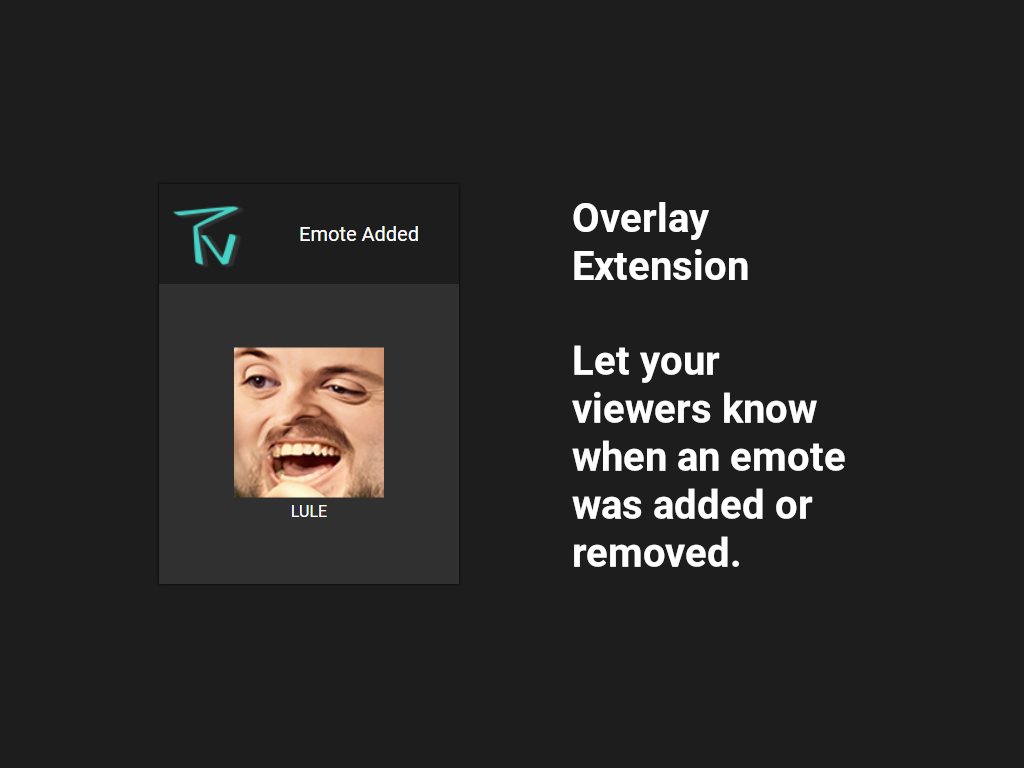
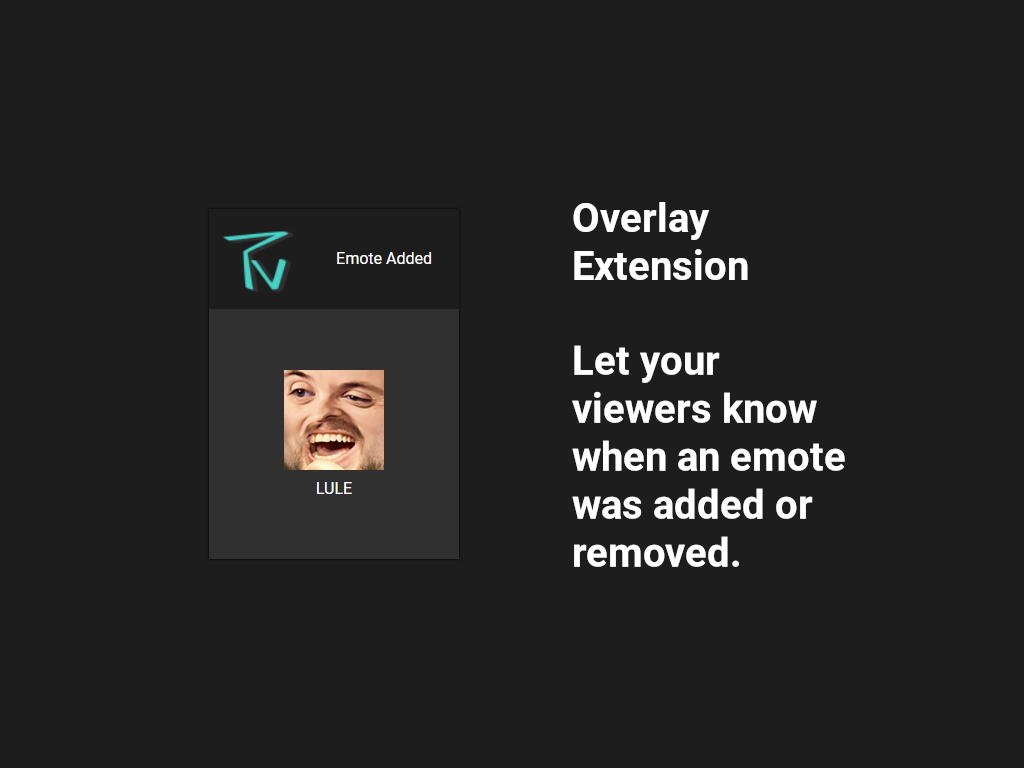
Added queue.

Changed region(s): [[0.2188, 0.4375, 0.375, 0.6875], [0.1562, 0.25, 0.4375, 0.375]]

diff --git a/js/overlay.js b/js/overlay.js
@@ -1,4 +1,5 @@
 const container = document.querySelector('.container');
+const emoteContainer = document.querySelector('.emote-container');
 const eventAction = document.querySelector('.event-action');
 const emoteImage = document.querySelector('.emote-image');
 const emoteName = document.querySelector('.emote-name');
@@ -8,19 +9,31 @@ const emoteImages = {};
 let eventTimeout;
 let imageTimeout;
 
-const displayAction = (add, name, image, id) => {
+let queue = [];
+
+const displayAction = () => {
+  if (!queue[0]) return;
+
+  const { add, name, image, id } = queue[0];
+
+  queue.shift();
+
   clearTimeout(eventTimeout);
   clearTimeout(imageTimeout);
 
+  container.style.pointerEvents = 'auto';
   container.style.opacity = 1;
 
+  emoteContainer.href = `https://7tv.app/emotes/${id}`;
+
   eventTimeout = setTimeout(() => {
+    container.style.pointerEvents = 'none';
     container.style.opacity = 0;
 
     imageTimeout = setTimeout(() => {
       emoteImage.src = '';
     }, 1000);
-  }, 1000 * 5);
+  }, 1000 * 3);
 
   switch (add) {
     case true:
@@ -62,17 +75,19 @@ const listenToEvents = async (id) => {
     source.addEventListener('update', ({ data }) => {
       const { action, name, emote, emote_id } = JSON.parse(data);
 
-      displayAction(
-        action === 'ADD',
+      queue.push({
+        add: action === 'ADD',
         name,
-        action === 'ADD' ? emote.urls[3][1] : null,
-        emote_id
-      );
+        image: action === 'ADD' ? emote.urls[3][1] : null,
+        id: emote_id,
+      });
     });
   } catch (error) {
     console.log(error);
   }
 };
+
+setInterval(displayAction, 1000 * 5);
 
 window.Twitch.ext.onAuthorized(async ({ channelId }) => {
   getEmotes(channelId);

diff --git a/overlay.html b/overlay.html
@@ -15,7 +15,11 @@
         <img src="img/logo.png" alt="7TV" />
         <p class="event-action">Emote Added</p>
       </a>
-      <div class="emote-container">
+      <a
+        href="https://7tv.app/emotes/612f89fe82980afa23311632"
+        class="emote-container"
+        target="_blank"
+      >
         <div class="emote">
           <img
             src="https://cdn.7tv.app/emote/612f89fe82980afa23311632/4x"
@@ -23,7 +27,7 @@
           />
           <p class="emote-name">ravenS</p>
         </div>
-      </div>
+      </a>
     </div>
   </body>
 </html>

diff --git a/css/overlay.css b/css/overlay.css
@@ -4,6 +4,7 @@ body {
   font-family: 'Roboto', sans-serif;
   color: white;
   text-align: center;
+  user-select: none;
 }
 
 body,
@@ -22,13 +23,14 @@ a {
   top: 50%;
   transform: translateY(-50%);
   width: 250px;
-  height: 250px;
+  height: 350px;
   background-color: #303030;
   box-shadow: 0 0px 3px black;
   display: flex;
   flex-direction: column;
   opacity: 0;
   transition: opacity 1s;
+  pointer-events: none;
 }
 
 .header {
@@ -58,5 +60,6 @@ a {
 }
 
 .emote-image {
-  width: 80px;
+  width: 100px;
+  margin-bottom: 5px;
 }

diff --git a/css/emotes.css b/css/emotes.css
@@ -21,6 +21,7 @@ body {
   color: white;
   overflow: hidden;
   height: 100%;
+  user-select: none;
 }
 
 body,
